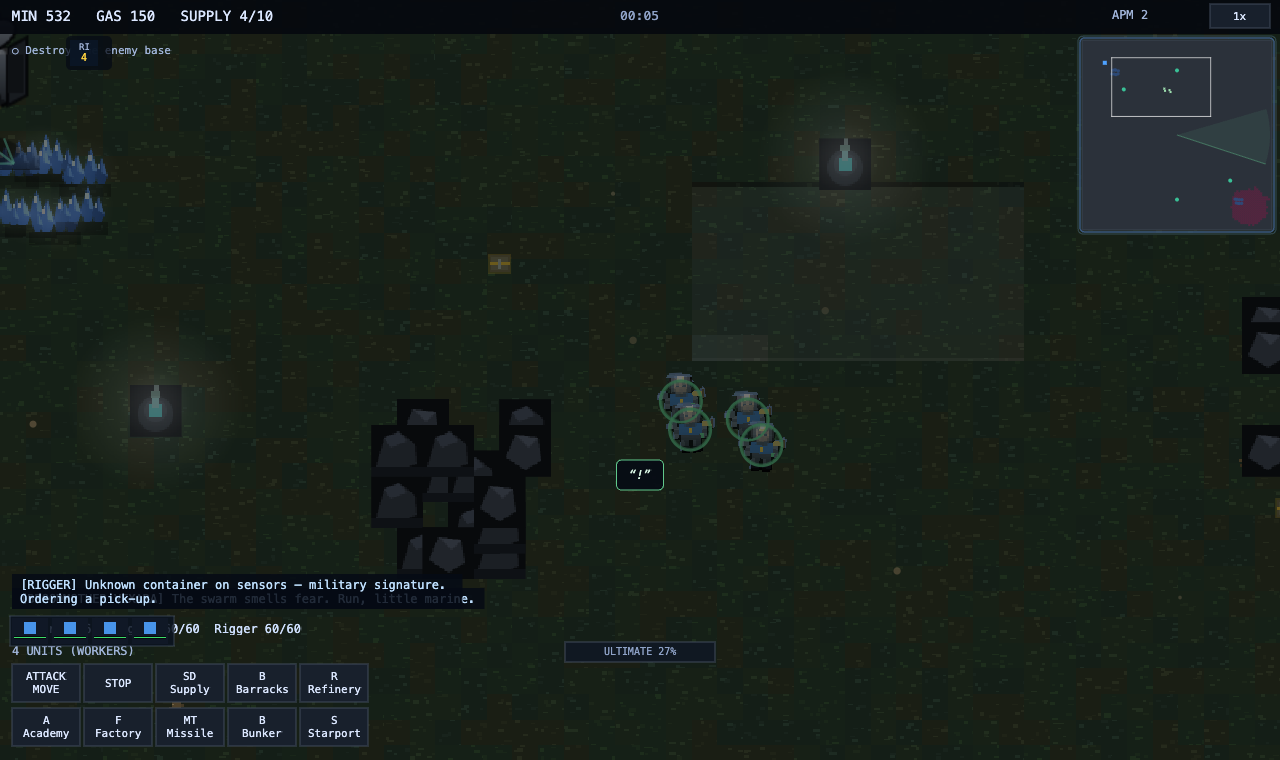
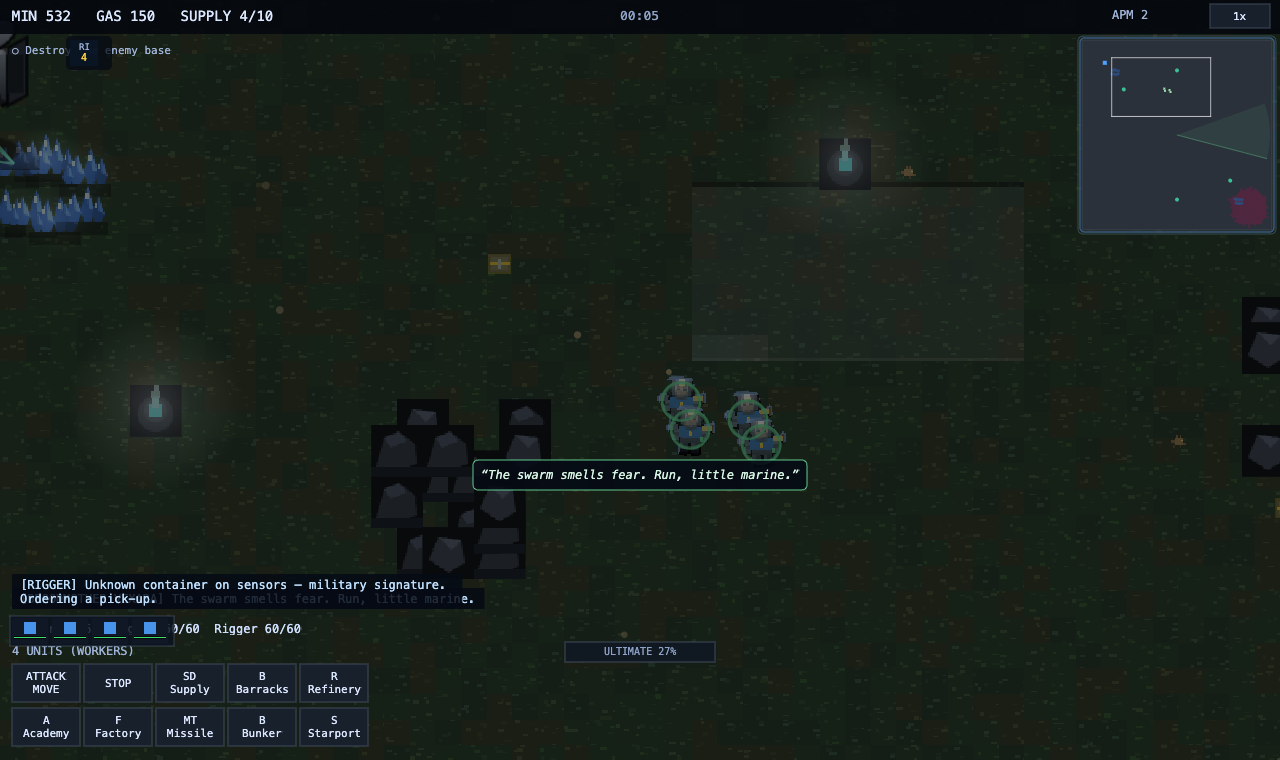
v2.34.1: L4 fog-memory silhouettes for enemy buildings (grayscale stale intel, color while spotted, brightness decays with age); L6 retaliation uses currentlyVisible not isVisible (fresh-spawn attackers were un-retaliatable); gate harness verify-v234-scd.cjs green 8/8 + AAA/V232/soak all green

diff --git a/src2/scenes/BattleScene.js b/src2/scenes/BattleScene.js
@@ -1083,6 +1083,23 @@ export class BattleScene extends Phaser.Scene {
 
   // per-fog-tick: enemy stealth sprites — cloaked/burrowed hostiles invisible unless detected
   updateStealthVisibility() {
+    // v2.34 L4: SC1 fog memory for structures — enemy buildings seen before go grayscale
+    // silhouettes when vision is lost (SC1 stale intel), full color while spotted.
+    for (const bl of this.buildings) {
+      if (bl.dead || bl.team === 0) continue;
+      if (this.hotseat) continue;
+      const seenT = bl.lastSeenIntel || 0;
+      if (this.currentlyVisible(bl.x, bl.y)) {
+        bl.lastSeenIntel = this.gameTime;
+        bl._memorized = true;
+        bl.sprite.clearTint(); bl.sprite.setAlpha(bl.built ? 1 : 0.6);
+      } else if (bl._memorized || this.seen[this.nav.idx(Math.floor(bl.x / TILE), Math.floor(bl.y / TILE))]) {
+        bl._memorized = true;
+        const age = Math.max(0, this.gameTime - (seenT || 0));
+        const a = Math.max(0.42, 0.72 - Math.min(0.3, age / 90)); // fresh memory brighter, stale fades
+        bl.sprite.setTintFill(0x76839a); bl.sprite.setAlpha(a);
+      }
+    }
     for (const u of this.units) {
       if (u.dead || u.team === 0) continue;
       const detected = this.detectedAt(u.x, u.y);

diff --git a/src2/engine/entity.js b/src2/engine/entity.js
@@ -783,8 +783,8 @@ export class Unit {
     }
     this.hp -= amount;
     this.sprite.setTint(0xffffff);
-    // v2.34 L6: SC1 retaliation — an idle unit shot by a visible attacker auto-acquires return fire
-    if (!this.dead && attacker && !attacker.dead && this.def.damage > 0 && !this.def.worker && !this.order && !this.target && !this.burrowed && !this.cloaked && this.world.isVisible && this.world.isVisible(attacker.x, attacker.y)) {
+    // v2.34 L6: SC1 retaliation — an idle unit shot by a currently-visible attacker auto-acquires return fire
+    if (!this.dead && attacker && !attacker.dead && this.def.damage > 0 && !this.def.worker && !this.order && !this.target && !this.burrowed && !this.cloaked && this.world.currentlyVisible && this.world.currentlyVisible(attacker.x, attacker.y)) {
       this.setOrder({ type: 'attackTarget', target: attacker });
     }
     // v2.26 polish: flinch on every hit; glass-shatter when the last shield point breaks
